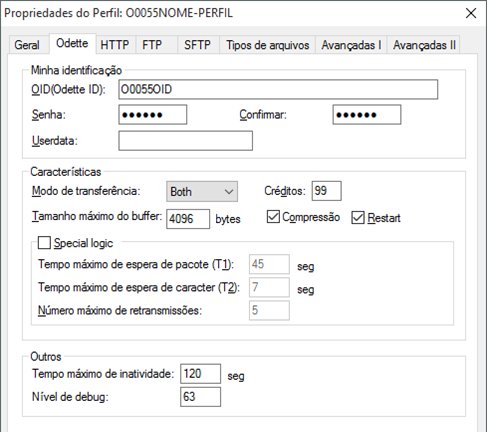
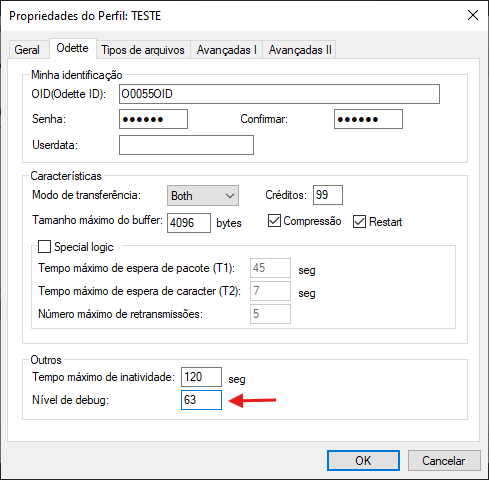
MOD atualizacao debug stcpclient

diff --git a/content/stcpclient/04-debug/_index.md b/content/stcpclient/04-debug/_index.md
@@ -14,13 +14,13 @@ lastmod: 2024-10-02
 ---
 ## Habilitar ou Alterar o nível de Debug
 
-Em alguns casos, para se obter uma análise mais detalhada de problemas relacionados ao intercâmbio de arquivos, torna-se necessária a depuração dos processos de conexão e transferência, realizadas pelo *STCP OFTP Server*.
+Em alguns casos, para se obter uma análise mais detalhada de problemas relacionados ao intercâmbio de arquivos, torna-se necessária a depuração dos processos de conexão e transferência, realizadas pelo *STCP OFTP Client*.
 
-Através da configuração do parâmetro *Nível de debug* é possível gerar um arquivo de depuração na pasta DEBUG (Ex. C:\STCPCLT\Debug) do diretório de instalação do STCP.
+Através da configuração do parâmetro *Nível de debug* é possível gerar um arquivo de depuração na pasta **DEBUG** (Ex. C:\STCPCLT\Debug) do diretório de instalação do STCP.
 
-Acesse o STCP OFTP Server Config (Iniciar – Todos os programas – Riversoft STCP OFTP Server). Selecione o usuário desejado na guia Usuários e clique no botão Propriedades Na janela Propriedades do usuário, na guia do protocolo utilizado (Odette, SFTP, FTP, HTTP) altere o valor do campo "Nível de debug" para 63 (outros valores podem ser utilizados – vide Tabela abaixo). 
+Acesse o STCP OFTP Client Config (Iniciar – Todos os programas – Riversoft STCP OFTP Client). Selecione o perfil desejado na guia Perfis e clique no botão Propriedades. Na janela Propriedades do perfil, na guia Odette, altere o valor do campo *Nível de debug* para 63 (outros valores podem ser utilizados – vide Tabela 2). 
 
-Após a alteração, disponibilize um arquivo de teste na pasta SAIDA do usuário, que apresenta o erro, e inicie uma nova conexão. O arquivo de debug será gerado no diretório DEBUG (Ex. C:\STCPODT\Debug).
+Após a alteração, disponibilize um arquivo de teste na pasta SAIDA do perfil, que apresenta o erro, e inicie uma nova conexão. O arquivo de debug será gerado no diretório **DEBUG** (Ex. C:\STCPCLT\Debug).
 
 {{< callout type="info" >}}
   NOTA: Uma vez gerado o erro, você pode voltar o nível de debug para o seu valor padrão (0).
